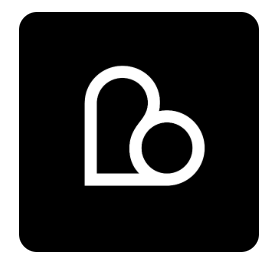
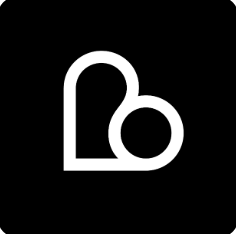
fix: 로고 수정

diff --git a/app/about/page.tsx b/app/about/page.tsx
@@ -67,7 +67,7 @@ export default function AboutPage() {
                   alt="CJ 올리브영"
                   width={24}
                   height={24}
-                  className="w-5 h-5 md:w-6 md:h-6 object-contain"
+                  className="w-6 h-6 md:w-7 md:h-7 object-cover rounded-md"
                 />
                 <h3 className="font-bold text-base md:text-lg text-text dark:text-text-dark">
                   <Link href="https://www.oliveyoung.co.kr/" className="hover:text-primary dark:hover:text-primary-dark transition-colors">
@@ -89,7 +89,7 @@ export default function AboutPage() {
                   alt="오늘의집"
                   width={24}
                   height={24}
-                  className="w-5 h-5 md:w-6 md:h-6 object-contain"
+                  className="w-6 h-6 md:w-7 md:h-7 object-cover rounded-md"
                 />
                 <h3 className="font-bold text-base md:text-lg text-text dark:text-text-dark">
                   <Link href="https://www.bucketplace.com/" className="hover:text-primary dark:hover:text-primary-dark transition-colors">
@@ -141,7 +141,7 @@ export default function AboutPage() {
                   alt="비마이프렌즈"
                   width={24}
                   height={24}
-                  className="w-5 h-5 md:w-6 md:h-6 object-contain"
+                  className="w-6 h-6 md:w-7 md:h-7 object-cover rounded-md"
                 />
                 <h3 className="font-bold text-base md:text-lg text-text dark:text-text-dark">
                   <Link href="https://bemyfriends.com/" className="hover:text-primary dark:hover:text-primary-dark transition-colors">
@@ -209,7 +209,7 @@ export default function AboutPage() {
                   alt="토스"
                   width={24}
                   height={24}
-                  className="w-5 h-5 md:w-6 md:h-6 object-contain"
+                  className="w-6 h-6 md:w-7 md:h-7 object-cover rounded-md"
                 />
                 <h3 className="font-bold text-base md:text-lg text-text dark:text-text-dark">
                   <Link href="https://toss.im/" className="hover:text-primary dark:hover:text-primary-dark transition-colors">

diff --git a/app/page.tsx b/app/page.tsx
@@ -4,7 +4,7 @@ export default function Page() {
   return (
     <section>
       <h1 className="mb-8 text-2xl font-semibold tracking-tighter">
-       환영합니다! 🤍
+       환영합니다! 🤍 😎 👩🏻💻
       </h1>
       <p className="mb-8">
         {`이곳은 프론트엔드 개발을 하며 마주한 문제들과 그 해결 과정, 그리고 배움을 기록하는 공간입니다. 가끔 개인적인 일상을 기록하는 일기장이 될 수도 있구요! 
